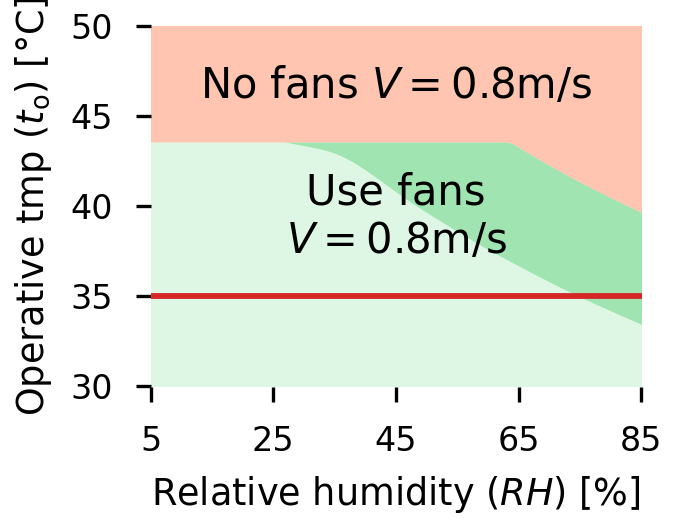
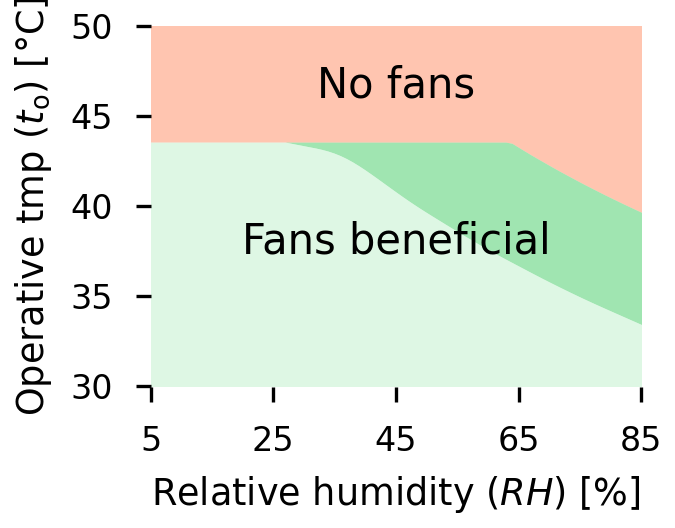
feat: changed graphical abstract figure

diff --git a/code/main.py b/code/main.py
@@ -1253,6 +1253,7 @@ class DataAnalysis:
         ax=False,
         plot_heat_strain_lines=False,
         legend=False,
+        plot_35_line=True,
     ):
 
         if not ax:
@@ -1437,7 +1438,8 @@ class DataAnalysis:
                 )
 
         # horizontal line showing limit imposed by most of the standards
-        ax.plot([0, 100], [35, 35], c="tab:red")
+        if plot_35_line:
+            ax.plot([0, 100], [35, 35], c="tab:red")
 
         # add legend
         if legend:
@@ -2644,7 +2646,7 @@ if __name__ == "__main__":
         # "ravanelli_comp",
         # "met_clo",
         # "summary_use_fans_weather",
-        "summary_use_fans_comparison_experimental",
+        # "summary_use_fans_comparison_experimental",
         # "summary_use_fans_and_population_tdb_max",
         # "world_map_population_weather",
         # "met_clo_v",
@@ -2652,7 +2654,7 @@ if __name__ == "__main__":
         # "compare_hospers_ashrae_weather",
         # "sweat_rate",
         # "phs",
-        # graphical_abstract,
+        "graphical_abstract",
     ]
 
     save_figure = True
@@ -2702,18 +2704,20 @@ if __name__ == "__main__":
             self.phs_results(save_fig=save_figure)
         if figure_to_plot == "graphical_abstract":
             fig, ax = plt.subplots(constrained_layout=True, figsize=(2.25, 1.76))
-            self.summary_use_fans_two_speeds(fig=fig, ax=ax, air_speeds=[0.2, 0.8])
+            self.summary_use_fans_two_speeds(
+                fig=fig, ax=ax, air_speeds=[0.2, 0.8], plot_35_line=False
+            )
             ax.text(
                 0.5,
                 0.8,
-                "No fans $V=0.8$m/s",
+                "No fans",
                 ha="center",
                 transform=ax.transAxes,
             )
             ax.text(
                 0.5,
                 0.37,
-                "Use fans\n$V=0.8$m/s",
+                "Fans beneficial",
                 ha="center",
                 transform=ax.transAxes,
             )
